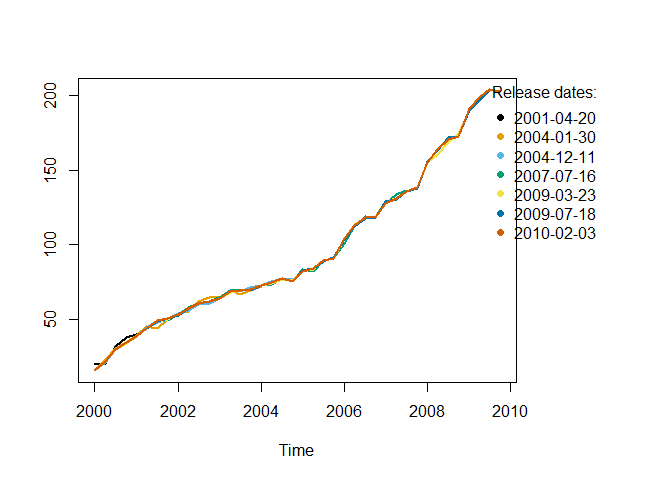
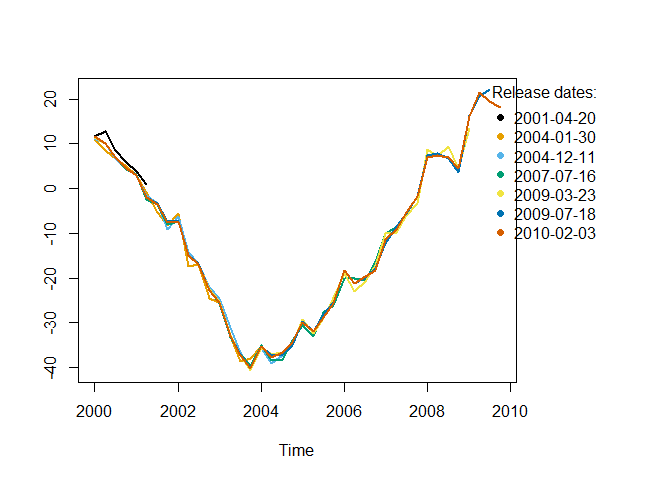
xxx

diff --git a/README.md b/README.md
@@ -7,6 +7,8 @@
 
 [![CRAN
 status](https://www.r-pkg.org/badges/version/rjd3revisions)](https://CRAN.R-project.org/package=rjd3revisions)
+[![Mentioned in Awesome Official
+Statistics](https://awesome.re/mentioned-badge.svg)](http://www.awesomeofficialstatistics.org)
 
 [![R-CMD-check](https://github.com/rjdverse/rjd3revisions/actions/workflows/R-CMD-check.yaml/badge.svg)](https://github.com/rjdverse/rjd3revisions/actions/workflows/R-CMD-check.yaml)
 [![lint](https://github.com/rjdverse/rjd3revisions/actions/workflows/lint.yaml/badge.svg)](https://github.com/rjdverse/rjd3revisions/actions/workflows/lint.yaml)
@@ -36,6 +38,7 @@ To get the current stable version (from the latest release):
 
 ``` r
 # install.packages("remotes")
+remotes::install_github("rjdverse/rjd3toolkit@*release")
 remotes::install_github("rjdverse/rjd3revisions@*release", build_vignettes = TRUE)
 ```
 
@@ -110,9 +113,9 @@ set.seed(7)
 
 # Examples
 long_view <- simulate_long(
-    periodicity = 4, 
-    n_period = 4 * 10, 
-    n_revision = 7, 
+    periodicity = 4,
+    n_period = 4 * 10,
+    n_revision = 7,
     start_period = as.Date("2000-01-01")
 )
 ```
@@ -137,48 +140,50 @@ plot(revisions)
 
 and make the analysis
 
+    #> Warning: package 'flextable' was built under R version 4.4.3
+
 ``` r
 rslt <- revision_analysis(vintages, gap = 1, view = "diagonal", n.releases = 3)
 
 print(rslt)
 #>                                            Transf. [Release[2]]-[Release[1]]
-#> Relevancy - Theil U2                          None              Good (0.339)
-#> Bias1 T-test                                  None              Good (0.798)
-#> Bias2 Augmented T-test                        None              Good (0.823)
-#> Bias3 SlopeAndDrift (Ols L on P) - Mean       None              Good (0.347)
-#> Bias3 SlopeAndDrift (Ols L on P) - Reg.       None              Good (0.232)
-#> Efficiency1 (Ols R on P) - Mean            Delta 1              Good (0.166)
-#> Efficiency1 (Ols R on P) - Reg.            Delta 1              Good (0.107)
+#> Relevancy - Theil U2                          None              Good (0.385)
+#> Bias1 T-test                                  None              Good (0.691)
+#> Bias2 Augmented T-test                        None              Good (0.694)
+#> Bias3 SlopeAndDrift (Ols L on P) - Mean       None              Good (0.178)
+#> Bias3 SlopeAndDrift (Ols L on P) - Reg.       None              Good (0.064)
+#> Efficiency1 (Ols R on P) - Mean            Delta 1              Good (0.981)
+#> Efficiency1 (Ols R on P) - Reg.            Delta 1         Uncertain (0.043)
 #> Efficiency2 (Ols Rv on Rv_1) - Mean           None                          
 #> Efficiency2 (Ols Rv on Rv_1) - Reg.           None                          
 #> Orthogonality1 (Ols Rv on Rv_(1:p)) - Mean    None                          
 #> Orthogonality1 (Ols Rv on Rv_(1:p)) - Reg.    None                          
 #> Orthogonality2 (Ols Rv on Rv_k.) - Mean       None                          
 #> Orthogonality2 (Ols Rv on Rv_k) - Reg.        None                          
-#> Orthogonality3 AutoCorrelation (Ljung-Box)    None              Good (0.417)
-#> Orthogonality4 Seasonality (Ljung-Box)     Delta 1              Good (0.993)
-#> Orthogonality4 Seasonality (Friedman)      Delta 1              Good (0.137)
-#> SignalVsNoise1 - Noise (Ols R on P)        Delta 1              Good (0.082)
-#> SignalVsNoise2 - Signal (Ols R on L)       Delta 1         Uncertain (0.053)
+#> Orthogonality3 AutoCorrelation (Ljung-Box)    None              Good (0.901)
+#> Orthogonality4 Seasonality (Ljung-Box)     Delta 1              Good (1.000)
+#> Orthogonality4 Seasonality (Friedman)      Delta 1              Good (0.435)
+#> SignalVsNoise1 - Noise (Ols R on P)        Delta 1         Uncertain (0.024)
+#> SignalVsNoise2 - Signal (Ols R on L)       Delta 1         Uncertain (0.346)
 #>                                            [Release[3]]-[Release[2]]
-#> Relevancy - Theil U2                                    Good (0.225)
-#> Bias1 T-test                                            Good (0.805)
-#> Bias2 Augmented T-test                                  Good (0.806)
-#> Bias3 SlopeAndDrift (Ols L on P) - Mean                 Good (0.584)
-#> Bias3 SlopeAndDrift (Ols L on P) - Reg.                 Good (0.624)
-#> Efficiency1 (Ols R on P) - Mean                         Good (0.300)
-#> Efficiency1 (Ols R on P) - Reg.                         Good (0.240)
-#> Efficiency2 (Ols Rv on Rv_1) - Mean                     Good (0.818)
-#> Efficiency2 (Ols Rv on Rv_1) - Reg.                     Good (0.298)
-#> Orthogonality1 (Ols Rv on Rv_(1:p)) - Mean              Good (0.818)
-#> Orthogonality1 (Ols Rv on Rv_(1:p)) - Reg.              Good (0.702)
-#> Orthogonality2 (Ols Rv on Rv_k.) - Mean                 Good (0.818)
-#> Orthogonality2 (Ols Rv on Rv_k) - Reg.                  Good (0.298)
-#> Orthogonality3 AutoCorrelation (Ljung-Box)              Good (0.999)
-#> Orthogonality4 Seasonality (Ljung-Box)                  Good (1.000)
-#> Orthogonality4 Seasonality (Friedman)                   Good (0.769)
-#> SignalVsNoise1 - Noise (Ols R on P)                     Good (0.248)
-#> SignalVsNoise2 - Signal (Ols R on L)               Uncertain (0.856)
+#> Relevancy - Theil U2                                    Good (0.107)
+#> Bias1 T-test                                            Good (0.926)
+#> Bias2 Augmented T-test                                  Good (0.936)
+#> Bias3 SlopeAndDrift (Ols L on P) - Mean                 Good (0.765)
+#> Bias3 SlopeAndDrift (Ols L on P) - Reg.                 Good (0.557)
+#> Efficiency1 (Ols R on P) - Mean                         Good (0.973)
+#> Efficiency1 (Ols R on P) - Reg.                    Uncertain (0.022)
+#> Efficiency2 (Ols Rv on Rv_1) - Mean                     Good (0.975)
+#> Efficiency2 (Ols Rv on Rv_1) - Reg.                      Bad (0.002)
+#> Orthogonality1 (Ols Rv on Rv_(1:p)) - Mean              Good (0.975)
+#> Orthogonality1 (Ols Rv on Rv_(1:p)) - Reg.              Good (0.998)
+#> Orthogonality2 (Ols Rv on Rv_k.) - Mean                 Good (0.975)
+#> Orthogonality2 (Ols Rv on Rv_k) - Reg.                   Bad (0.002)
+#> Orthogonality3 AutoCorrelation (Ljung-Box)              Good (0.141)
+#> Orthogonality4 Seasonality (Ljung-Box)                  Good (0.377)
+#> Orthogonality4 Seasonality (Friedman)                   Good (0.334)
+#> SignalVsNoise1 - Noise (Ols R on P)                Uncertain (0.010)
+#> SignalVsNoise2 - Signal (Ols R on L)               Uncertain (0.623)
 # summary(rslt)
 View(rslt)
 ```
